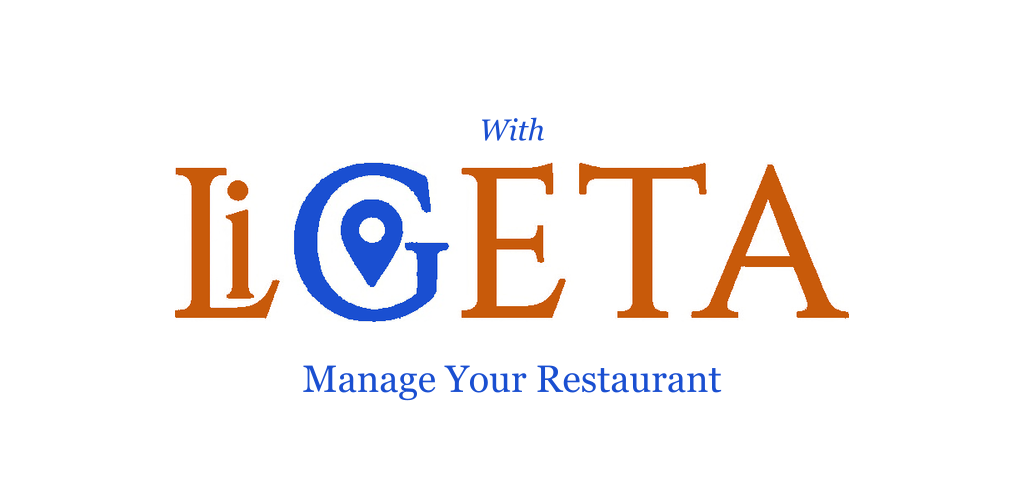
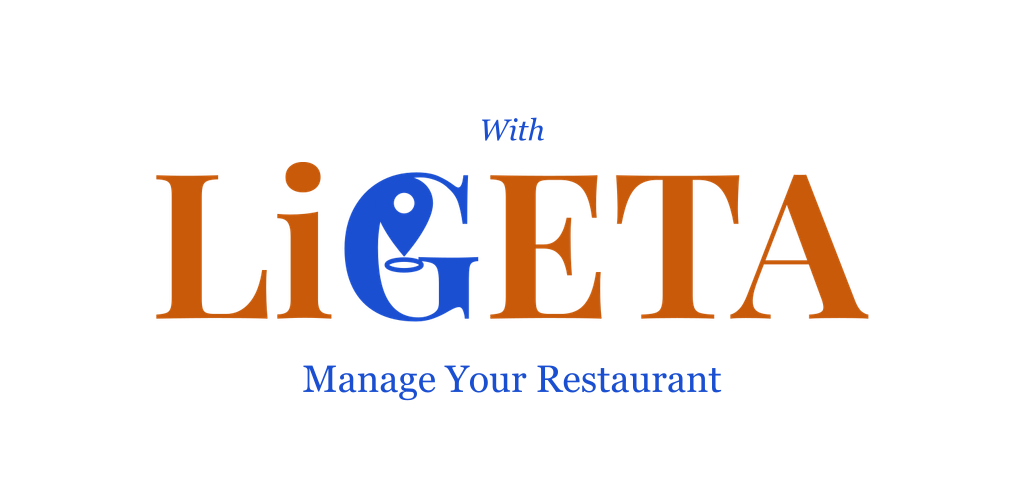
Rebuild the wordmark as real vector typography instead of recolored raster art
The repeated recolor passes on the original raster logo left visibly rough,
jagged letter edges once zoomed in on the icon. Re-typeset "LiGETA" with
Playfair Display (a close match to the original serif) and a hand-built
pin+ring SVG composited into the G's counter, instead of patching the old
bitmap further. This is now the single source for icon.png, the Android
adaptive icon, the favicon, the Play Store assets, and the buffer screen's
English wordmark pieces - all crisp at any size, with consistent kerning
since the whole word renders as one text run. Arabic buffer screen pieces
are unchanged (hand-drawn calligraphy, not typeset from a font).

Changed region(s): [[0.1562, 0.3, 0.8438, 0.66]]

diff --git a/apps/partner-app/src/components/IntroOverlay.tsx b/apps/partner-app/src/components/IntroOverlay.tsx
@@ -16,7 +16,7 @@ interface IntroOverlayProps {
 // below) — it's independent of their fixed left-to-right screen position.
 const SEGMENT_SETS = {
   en: {
-    sourceHeight: 171,
+    sourceHeight: 237,
     reverseDropOrder: false,
     // "Li" / "G" (with the pin) / "ETA" — drops in reading order, left to right.
     // withAnchorIndex: which segment the small "With" label sits above - "G"
@@ -25,9 +25,9 @@ const SEGMENT_SETS = {
     withAnchorIndex: 1,
     withOffsetPx: 0,
     segments: [
-      { source: require('../../assets/intro-en-1-partner.png'), width: 115 },
-      { source: require('../../assets/intro-en-2-partner.png'), width: 139 },
-      { source: require('../../assets/intro-en-3-partner.png'), width: 352 },
+      { source: require('../../assets/intro-en-1-partner.png'), width: 260 },
+      { source: require('../../assets/intro-en-2-partner.png'), width: 215 },
+      { source: require('../../assets/intro-en-3-partner.png'), width: 577 },
     ],
   },
   ar: {
